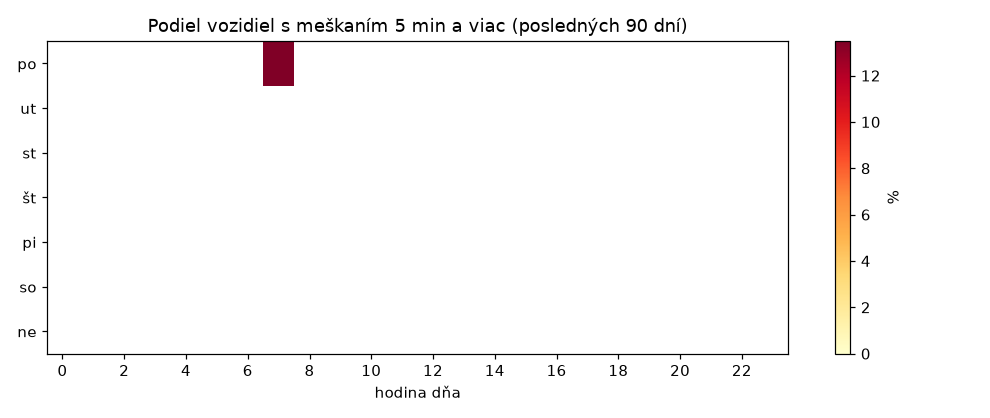
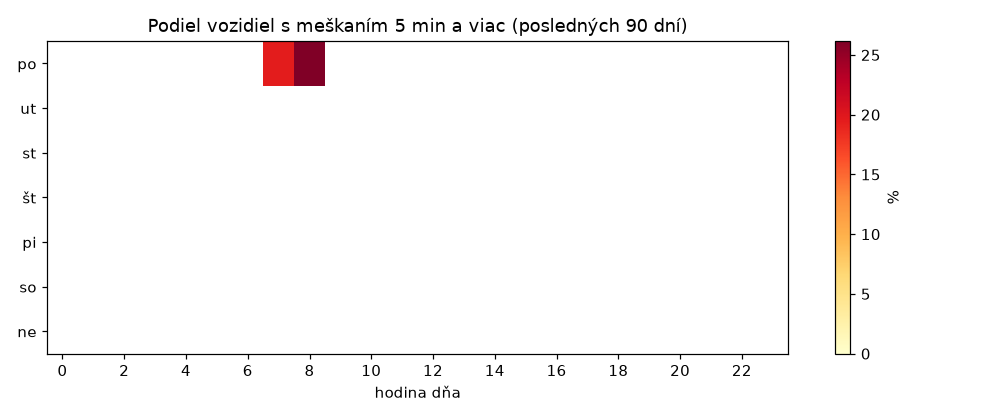
Update stats 2026-10-26

diff --git a/mhd-stats/mhd-repo/stats/STATS.md b/mhd-stats/mhd-repo/stats/STATS.md
@@ -1,10 +1,10 @@
 # Štatistiky MHD Bratislava
 
-Automaticky generované 2026-10-26 07:14. Zdroj: kdejemhd.sk, zber každú minútu.
+Automaticky generované 2026-10-26 08:10. Zdroj: kdejemhd.sk, zber každú minútu.
 
 - Dní v štatistike: **1** (2026-10-26 až 2026-10-26)
-- Priemerné pokrytie zberom: **0 %** (100 % = zber každú minútu celý deň)
-- Posledných 7 dní: načas 50.2 %, meškanie 5 min a viac 13.5 %, v službe priemerne 556 vozidiel (556 meraní).
+- Priemerné pokrytie zberom: **4 %** (100 % = zber každú minútu celý deň)
+- Posledných 7 dní: načas 42.1 %, meškanie 5 min a viac 20.6 %, v službe priemerne 561 vozidiel (31 440 meraní).
 
 ## Kedy meškajú najviac
 
@@ -12,13 +12,36 @@ Automaticky generované 2026-10-26 07:14. Zdroj: kdejemhd.sk, zber každú minú
 
 ![vozidlá podľa hodiny](charts/vehicles_by_hour.png)
 
+## Linky s najväčším podielom meškaní (30 dní)
+
+| Linka | Meraní | Načas % | 5 min+ % | Priem. meškanie (min) |
+|---|---|---|---|---|
+| 50 | 680 | 29.7 | 41.9 | 5.8 |
+| 98 | 986 | 34.2 | 37.5 | 5.1 |
+| 21 | 1139 | 37.2 | 34.6 | 4.3 |
+| 65 | 966 | 23.1 | 32.1 | 4.5 |
+| 71 | 896 | 30.9 | 27.8 | 3.4 |
+| 39 | 527 | 50.9 | 26.0 | 3.5 |
+| 96 | 783 | 35.0 | 24.1 | 2.7 |
+| 84 | 1003 | 29.6 | 23.9 | 3.9 |
+| 42 | 952 | 40.8 | 23.4 | 2.6 |
+| 70 | 627 | 43.1 | 23.0 | 3.2 |
+
+![linky](charts/worst_routes.png)
+
 ## Podľa typu vozidla (30 dní)
 
 | Typ | Meraní | Načas % | 5 min+ % |
 |---|---|---|---|
-| Autobusy | 342 | 48.5 | 15.5 |
-| Tramvaje | 110 | 52.7 | 10.9 |
-| Trolejbusy | 104 | 52.9 | 9.6 |
+| Autobusy | 19449 | 39.0 | 24.4 |
+| Tramvaje | 6174 | 48.8 | 9.4 |
+| Trolejbusy | 5817 | 45.0 | 20.2 |
+
+## Miesta, kde vozidlá stoja
+
+![miesta](charts/hotspots.png)
+
+Zahŕňa aj konečné a zastávky, kde vozidlá stoja prirodzene.
 
 ## Dáta na stiahnutie
 

diff --git a/mhd-stats/mhd-repo/README.md b/mhd-stats/mhd-repo/README.md
@@ -9,7 +9,7 @@ Nezávislý projekt, nie je súčasťou Dopravného podniku Bratislava.
 <!-- STATS:START -->
 ## Aktuálne štatistiky
 
-Posledných 7 dní: načas 50.2 %, meškanie 5 min a viac 13.5 %, v službe priemerne 556 vozidiel (556 meraní).
+Posledných 7 dní: načas 42.1 %, meškanie 5 min a viac 20.6 %, v službe priemerne 561 vozidiel (31 440 meraní).
 
 Všetko: [stats/STATS.md](stats/STATS.md)
 <!-- STATS:END -->
